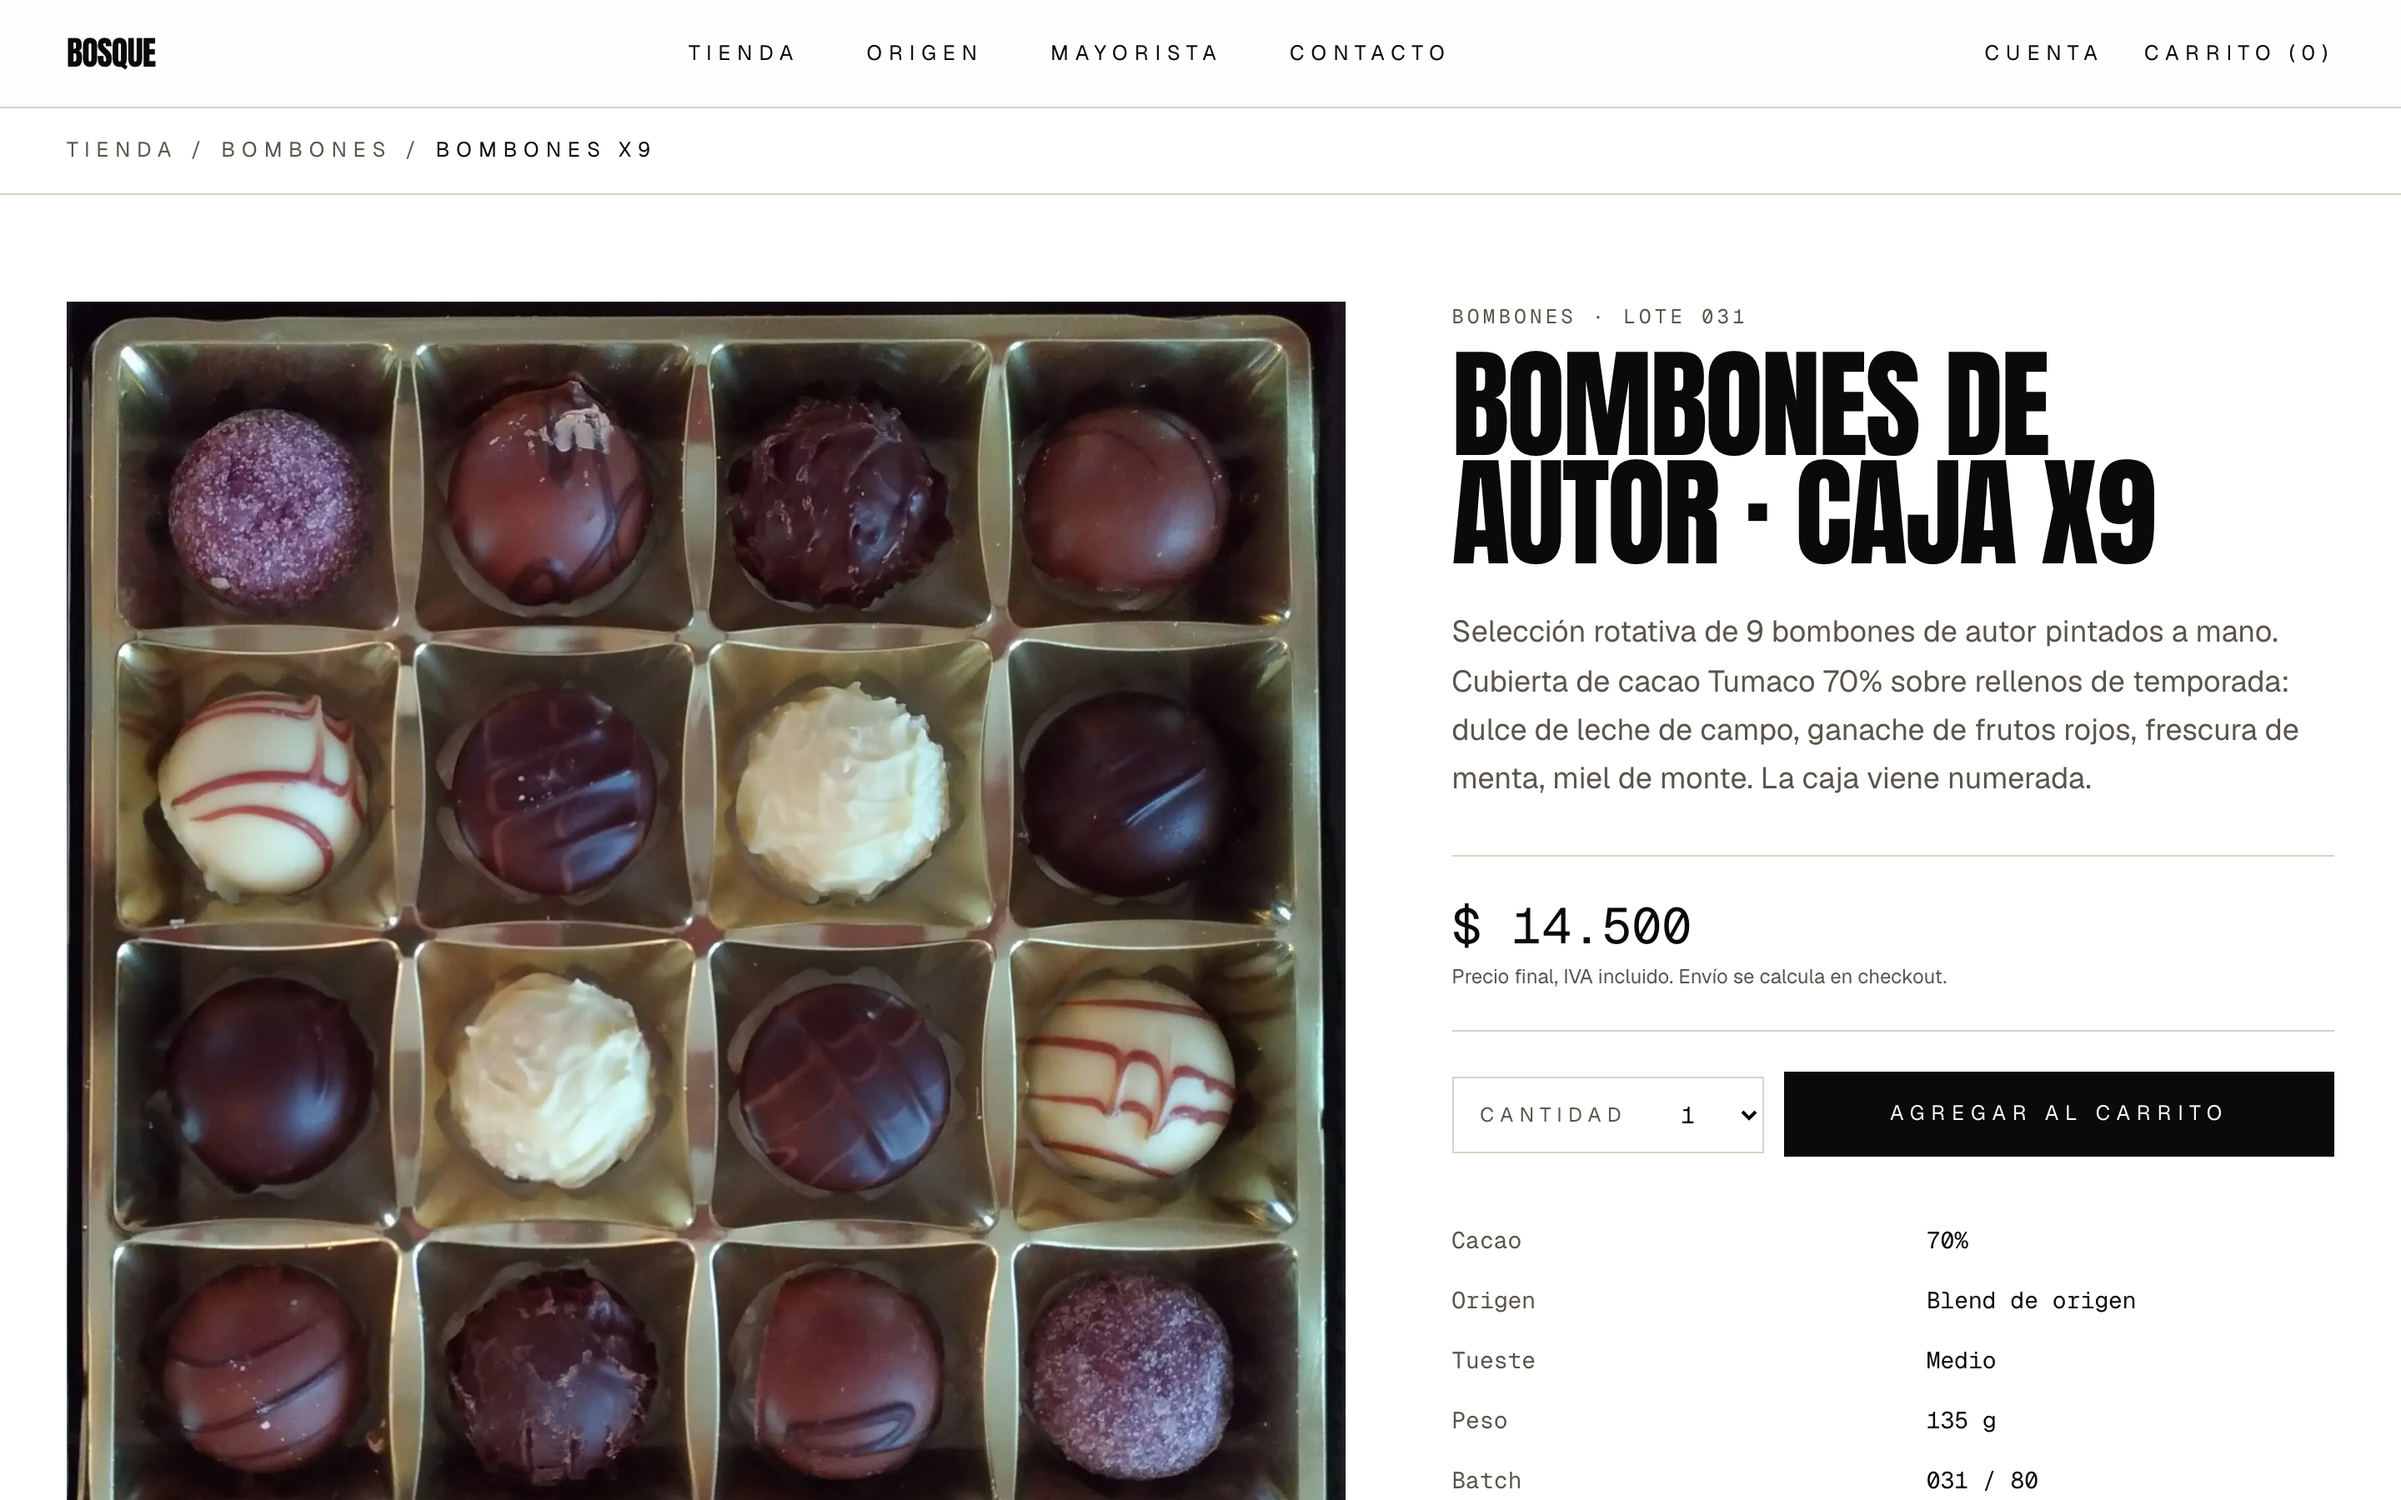
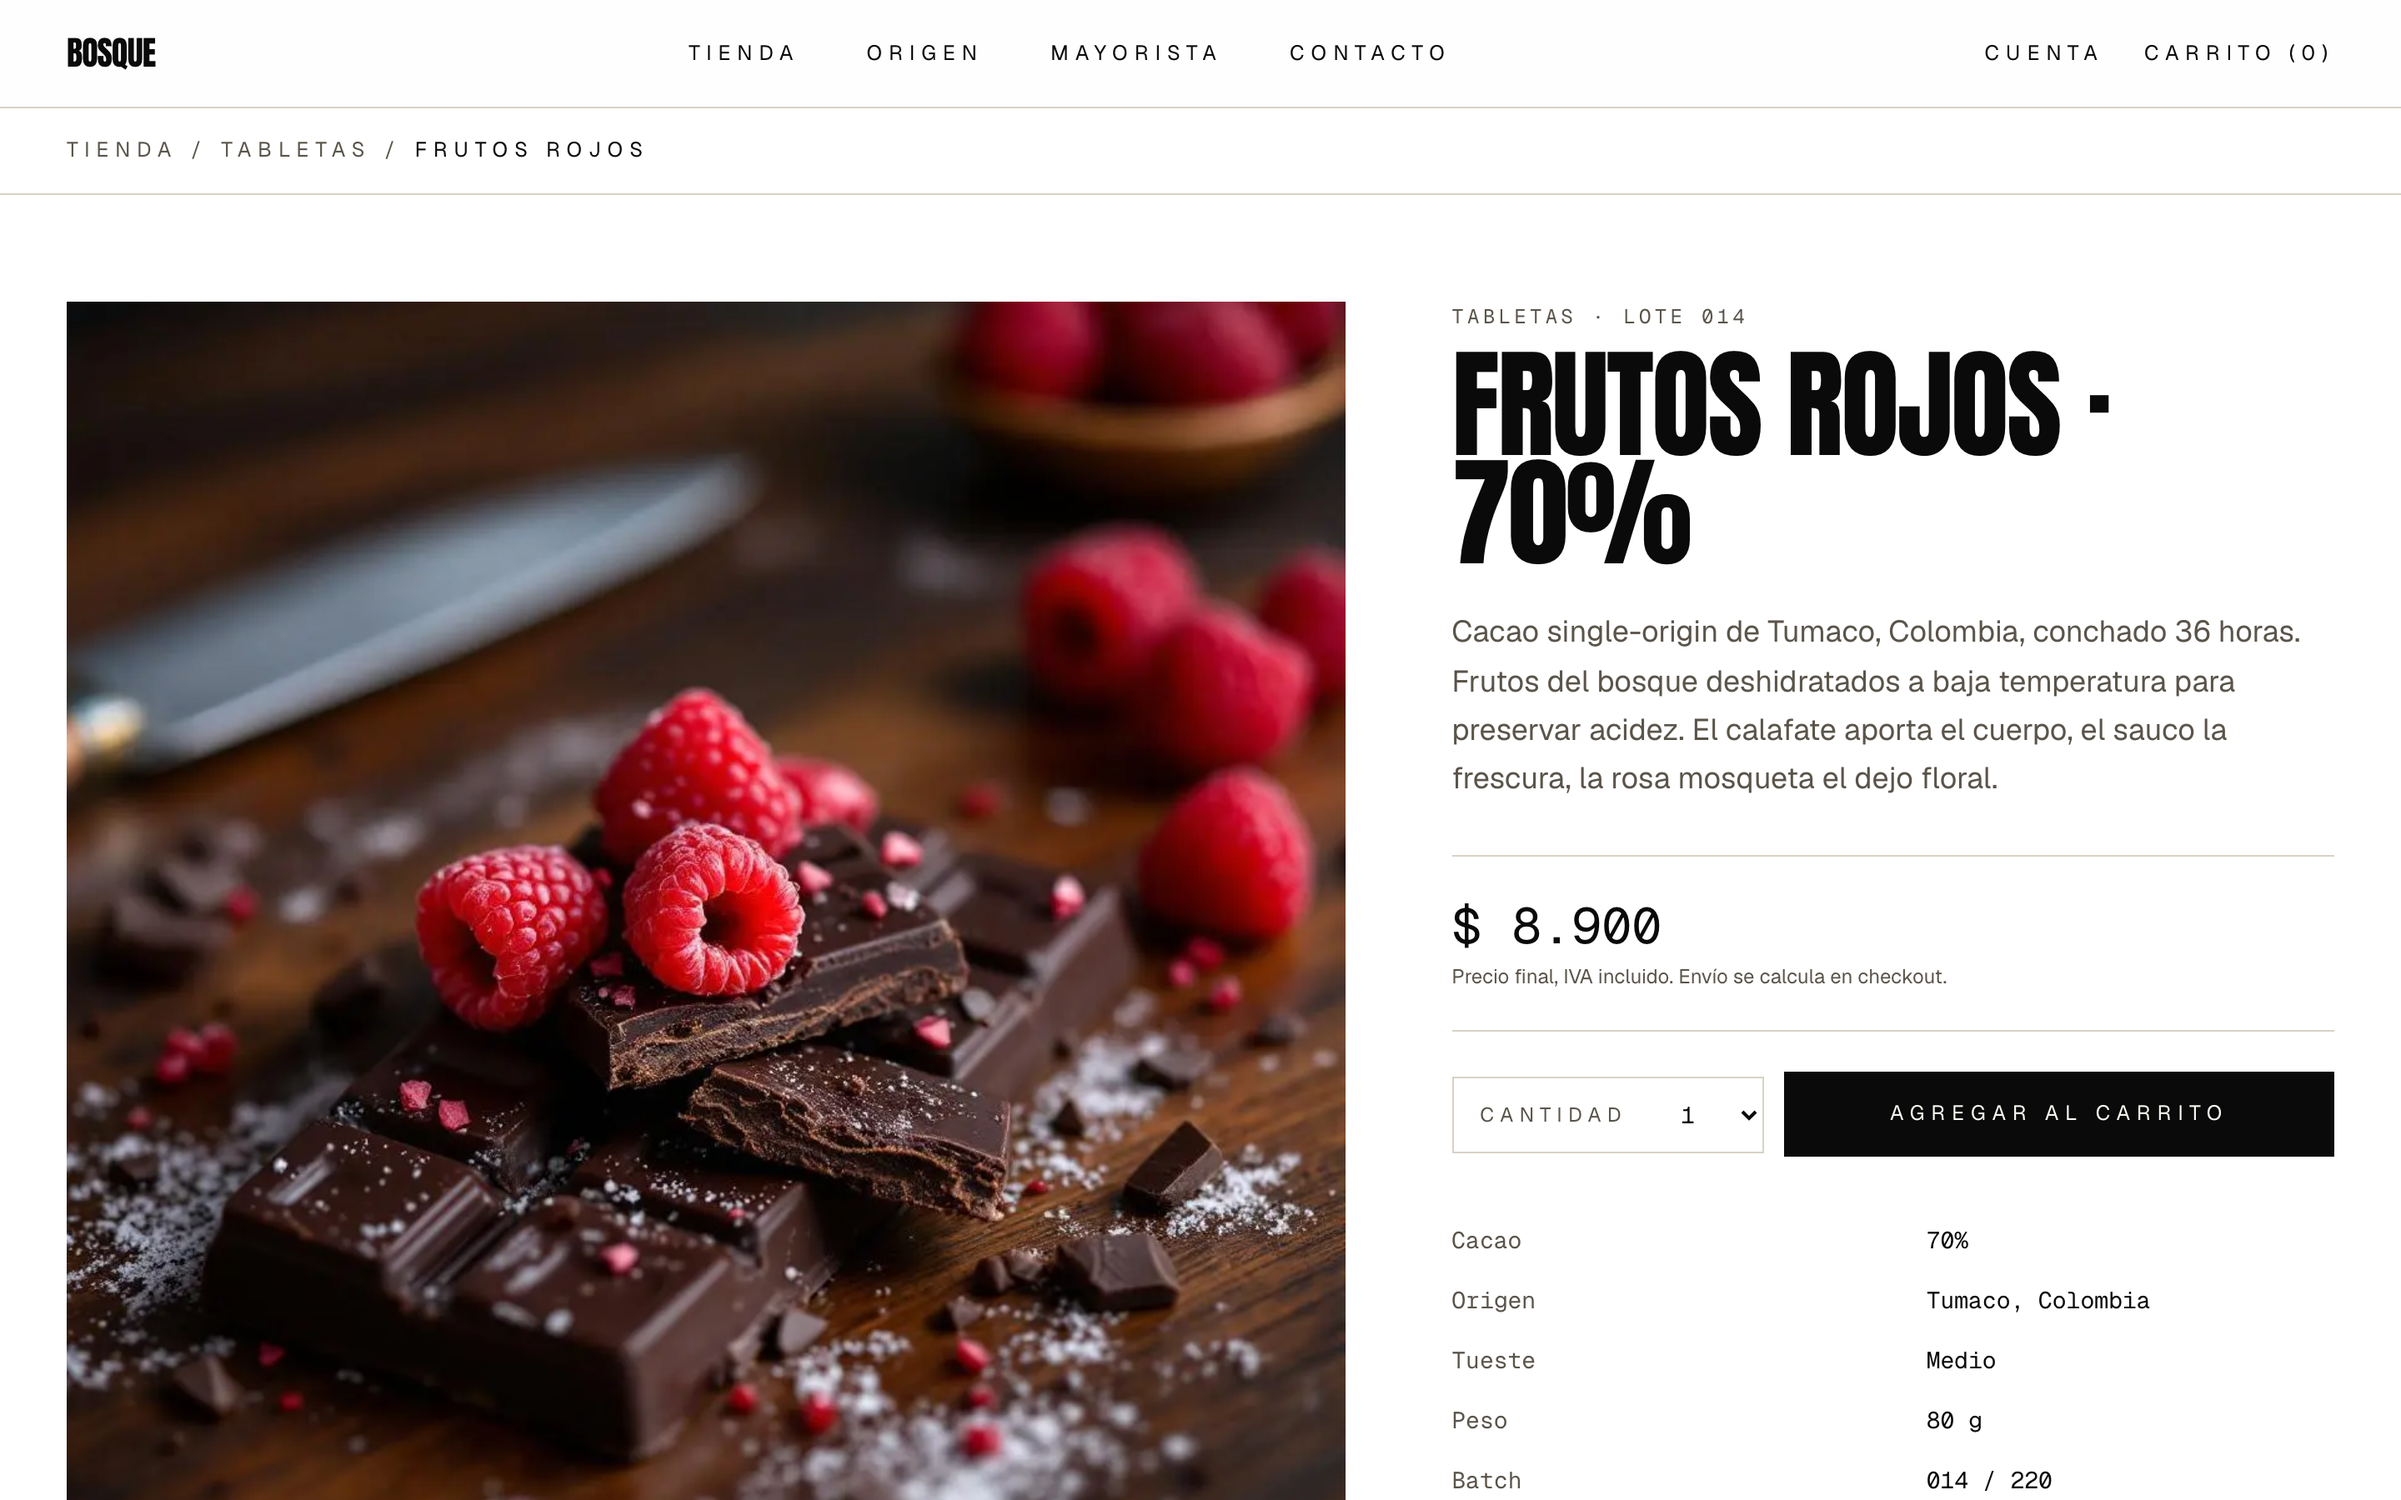
docs: v1.0 milestone con screenshots FLUX

diff --git a/BUILD_LOG.md b/BUILD_LOG.md
@@ -42,3 +42,6 @@ Tracking honesto del tiempo wall-clock para narrativa marketing del kit.
 | 2026-05-06T16:49:00Z | SESSION_SECRET (256 bits) + ADMIN_TOKEN (128 bits) + PAYMENT_MODE=simulated + NEXT_PUBLIC_APP_URL agregados a Vercel env. |
 | 2026-05-06T16:51:00Z | **v0.3 live end-to-end** — carrito DB funcional, /admin/login operativo, simulated checkout completo. ~47 min wall-clock activo. |
 | 2026-05-06T16:55:00Z | Tests: Vitest 30/30 passing (shipping, session HMAC, products, format). Playwright 3/3 passing contra live deploy. Screenshots portfolio capturados. ~51 min wall-clock activo. |
+| 2026-05-06T17:00:00Z | Páginas faltantes (404 fix): /origen, /mayorista, /contacto, /envios, /produccion, /cuenta, /legales con contenido real. 20 rutas activas. |
+| 2026-05-06T17:30:00Z | Imágenes Wikimedia Commons (12 fotos libres) — quedaron pobres para chocolatería premium (cupcakes/flores/polillas como falsos positivos). |
+| 2026-05-06T17:50:00Z | **v1.0 deployed** — 16 imágenes generadas con Replicate FLUX 1.1 Pro (~$0.64). Packshots editorial dark moody coherentes con identidad Onyx-style. Hero patagónico AI gen. ~106 min wall-clock activo. |
